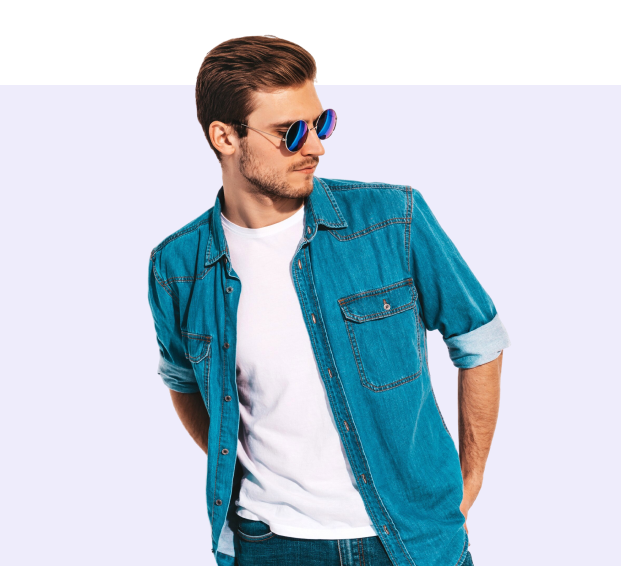
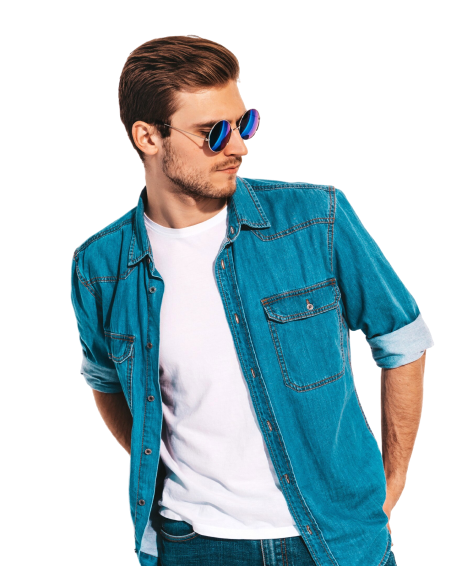
Added collection section

diff --git a/components/home/Collection.jsx b/components/home/Collection.jsx
@@ -1,0 +1,48 @@
+import { FontAwesomeIcon } from "@fortawesome/react-fontawesome";
+import Image from "next/image";
+
+const Collection = () => {
+  return (
+    <div className="w-[1280px] h-[614px] mx-auto my-6">
+      <div className="h-[566px] bg-white flex items-center justify-between relative overflow-visible">
+        {/* Image Section */}
+        <div className="w-[621px] h-[481px] flex items-center justify-center bg-[#EEECFB] mt-[84px] relative">
+          <Image
+            src="/man.png"
+            alt="man"
+            width={400}
+            height={400}
+            className="absolute -top-[100px] w-[600px] h-[580px] object-contain"
+          />
+        </div>
+
+        {/* Text Section */}
+        <div className="w-[50%] flex flex-col items-start justify-center pl-8">
+          <p className="text-[48px] font-bold">Men Collection</p>
+
+          <div className="mt-6 flex items-center">
+            <button className="w-[149px] h-[48px] bg-primary hover:bg-primary-dark text-white rounded-[28px]">
+              Shop Now
+            </button>
+            <div className="flex items-center justify-center w-12 h-12 bg-primary rounded-full">
+              <Image
+                src="/arrow.png"
+                alt="arrow"
+                height={100}
+                width={100}
+                className="w-[24px] h-[24px]"
+              />
+            </div>
+          </div>
+        </div>
+      </div>
+      <div className="flex justify-center items-center py-6 gap-3">
+        <Image src="/mark.png" width={30} height={10} alt="mark1" />
+        <Image src="/mark2.png" width={20} height={2} alt="mark1" />
+        <Image src="/mark2.png" width={20} height={2} alt="mark1" />
+      </div>
+    </div>
+  );
+};
+
+export default Collection;

diff --git a/components/home/Offer.jsx b/components/home/Offer.jsx
@@ -1,0 +1,44 @@
+import Image from "next/image";
+
+const Offer = () => {
+  return (
+    <div className="w-[1280px] h-[450px] bg-[#EEECFB] mx-28 my-2 flex items-center justify-between px-[75px] overflow-hidden">
+      {/* Text */}
+      <div className="flex-1 px-6">
+        <p className="text-[24px] font-primary text-primary">Big Deal</p>
+        <p className="text-[48px] font-semibold">
+          <span className="text-primary">30% </span>off for New Customers
+        </p>
+
+        <div className="mt-[8px] flex items-center">
+          <button className="w-[149px] h-[48px] bg-primary hover:bg-primary-dark text-white rounded-[28px]">
+            Shop Now
+          </button>
+          <div className="flex items-center justify-center w-12 h-12 bg-primary rounded-full">
+            <Image
+              src="/arrow.png"
+              alt="arrow"
+              height={100}
+              width={100}
+              className="w-[24px] h-[24px]"
+            />
+          </div>
+        </div>
+      </div>
+
+      {/* Image */}
+      <div className="w-[427px] h-[450px]">
+        <Image
+          src="/offer.png"
+          height={800}
+          width={800}
+          alt="offer"
+          className="w-full h-full object-cover"
+        />
+      </div>
+    </div>
+  );
+};
+
+export default Offer;
+

diff --git a/app/page.js b/app/page.js
@@ -1,5 +1,7 @@
 import Banner from "@/components/home/Banner";
+import Collection from "@/components/home/Collection";
 import NewArrival from "@/components/home/NewArrival";
+import Offer from "@/components/home/Offer";
 import Support from "@/components/home/Support";
 
 export default function Home() {
@@ -8,6 +10,8 @@ export default function Home() {
       <Banner />
       <Support />
       <NewArrival />
+      <Offer />
+      <Collection />
     </div>
   );
 }

diff --git a/app/globals.css b/app/globals.css
@@ -1,4 +1,5 @@
 @import url("https://fonts.googleapis.com/css2?family=Manrope:wght@200..800&family=Playfair+Display:ital,wght@0,400..900;1,400..900&display=swap");
+@import url('https://fonts.googleapis.com/css2?family=Manrope:wght@200..800&family=Pacifico&family=Playfair+Display:ital,wght@0,400..900;1,400..900&display=swap');
 
 @tailwind base;
 @tailwind components;

diff --git a/components/home/Support.jsx b/components/home/Support.jsx
@@ -12,7 +12,7 @@ const Support = () => {
         backgroundRepeat: "no-repeat",
       }}
     >
-      <div className="px-28 mx-auto">
+      <div className="px-32 mx-auto">
         <div className="flex items-center justify-between gap-4">
           {SupportData.map((item, index) => (
             <div key={index} className="flex items-center gap-4 px-4">

diff --git a/tailwind.config.js b/tailwind.config.js
@@ -13,6 +13,9 @@ module.exports = {
       xl: "1200px",
       "2xl": "1400px",
     },
+    fontFamily: {
+      primary: ["pacifico", "s"],
+    },
     extend: {
       colors: {
         background: "#F5F3FF",
